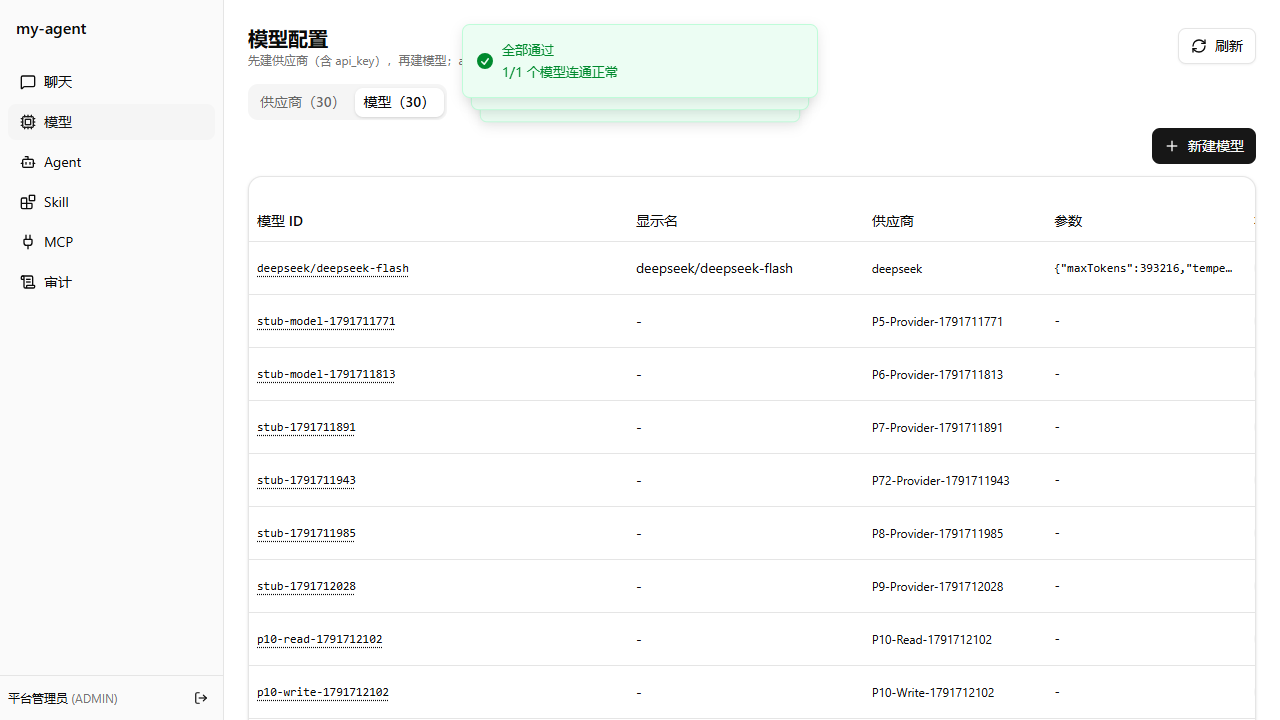
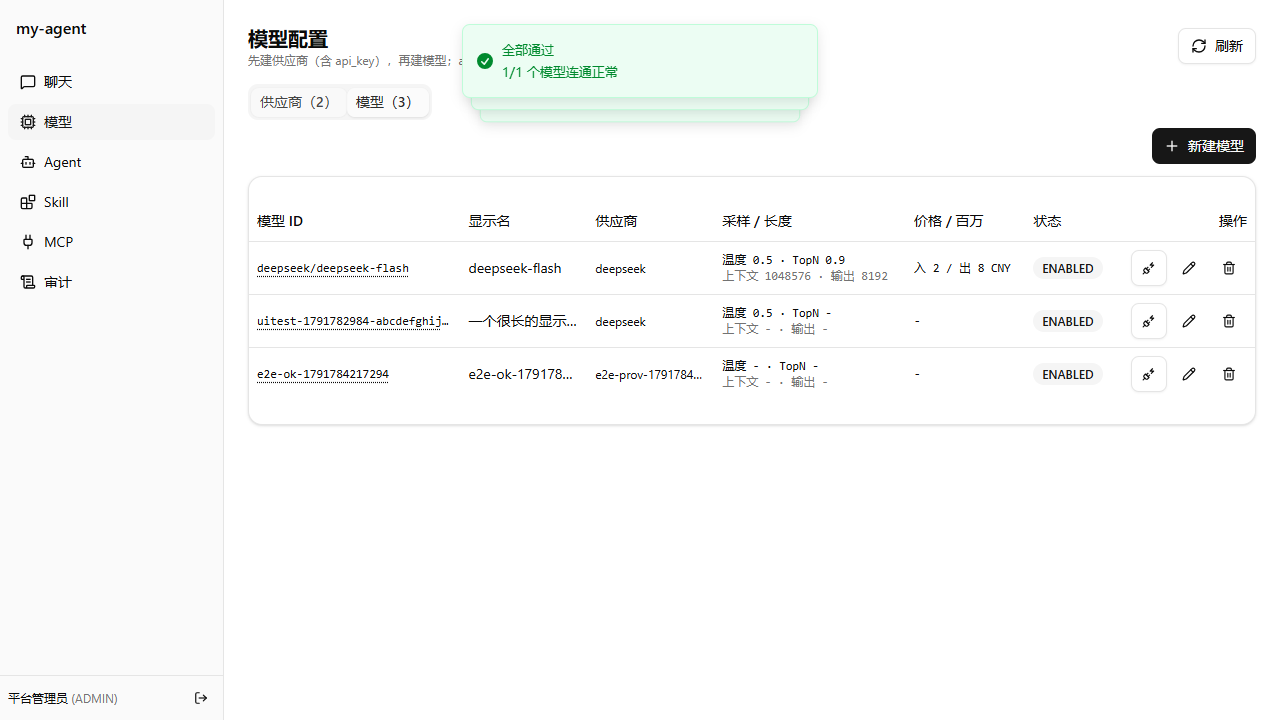
fix(P16): 长模型 ID 撑破表格（操作按钮被挤出）；顺带修连通测试没测真实配置
用户反馈：模型 ID 太长时表格被撑开，右侧操作按钮被挤到横向滚动区外。

修复（模型页）：
- 模型 ID / 显示名 / 供应商三列加 max-width + truncate，悬停（title）显示完整值；
  ID 列限 200px、显示名与供应商各 120px。
- 表头「价格（每百万 token）」缩短为「价格 / 百万」，避免表头把列撑宽。
- 行内「测试」按钮由带文字改为图标 + aria-label（列宽从 166px 降到 ~40px）。
- 实测：容器 clientWidth=scrollWidth=1006（**横向溢出 0**），编辑按钮右边界 1207 ≤ 视口 1280；
  截图 docs/acceptance/task-16-long-id-truncate.png

顺带修掉一个真功能缺口（被 e2e 暴露）：
- 连通测试（ModelConnectivityProbe 调用处）此前只读 params_json，而 Phase 15 起这些参数是显式列，
  导致「模型页填了非法 max_tokens → 点测试却通过」——非法配置在测试阶段暴露不出来。
  现在把模型的显式列（temperature/topP/maxTokens）并入探测参数，测的就是真实配置。
- 模型表单标签「输出长度（tokens）」改回含熟悉术语的「最大输出 tokens（输出长度）」。

验证：admin e2e 7/7 通过（含 max_tokens 超标用例）；前端 lint 0 error / vitest 66 / build 成功；
后端 mvn verify 93 通过。

diff --git a/frontend/src/pages/admin/models/ModelsPage.tsx b/frontend/src/pages/admin/models/ModelsPage.tsx
@@ -424,7 +424,7 @@ export default function ModelsPage() {
                     <TableHead>显示名</TableHead>
                     <TableHead>供应商</TableHead>
                     <TableHead>采样 / 长度</TableHead>
-                    <TableHead>价格（每百万 token）</TableHead>
+                    <TableHead>价格 / 百万</TableHead>
                     <TableHead>状态</TableHead>
                     <TableHead className="text-right">操作</TableHead>
                   </TableRow>
@@ -433,8 +433,8 @@ export default function ModelsPage() {
                   {models.map((m) => (
                     <TableRow key={m.id}>
                       <TableCell
-                        className="cursor-pointer font-mono text-xs underline decoration-dotted underline-offset-4"
-                        title="点击修改模型 ID"
+                        className="max-w-[200px] cursor-pointer truncate font-mono text-xs underline decoration-dotted underline-offset-4"
+                        title={m.modelId}
                         onClick={() => {
                           const params = (m.params ?? {}) as Record<string, unknown>;
                           setModelForm({
@@ -463,8 +463,16 @@ export default function ModelsPage() {
                       >
                         {m.modelId}
                       </TableCell>
-                      <TableCell>{m.displayName ?? "-"}</TableCell>
-                      <TableCell className="text-xs">
+                      <TableCell className="max-w-[120px] truncate" title={m.displayName ?? ""}>
+                        {m.displayName ?? "-"}
+                      </TableCell>
+                      <TableCell
+                        className="max-w-[120px] truncate text-xs"
+                        title={
+                          providers.find((p) => p.id === m.providerId)?.name ??
+                          String(m.providerId)
+                        }
+                      >
                         {providers.find((p) => p.id === m.providerId)?.name ?? m.providerId}
                       </TableCell>
                       <TableCell className="font-mono text-xs whitespace-nowrap">
@@ -486,17 +494,17 @@ export default function ModelsPage() {
                       <TableCell className="text-right">
                         <div className="flex justify-end gap-1">
                           <Button
-                            size="sm"
+                            size="icon"
                             variant="outline"
                             disabled={testingId != null}
+                            aria-label={testingId === m.id ? "测试中" : "测试"}
+                            title="用这个模型做连通测试"
                             onClick={() => {
                               const provider = providers.find((p) => p.id === m.providerId);
                               if (provider) void runTest(provider, m);
                             }}
-                            title="用这个模型做连通测试"
                           >
                             <PlugZap className="size-3.5" />
-                            {testingId === m.id ? "测试中…" : "测试"}
                           </Button>
                           <Button
                             size="icon"
@@ -700,7 +708,7 @@ export default function ModelsPage() {
                 />
               </label>
               <label className="space-y-1 text-sm">
-                输出长度（tokens）
+                最大输出 tokens（输出长度）
                 <Input
                   value={modelForm.maxTokens}
                   onChange={(e) => setModelForm({ ...modelForm, maxTokens: e.target.value })}

diff --git a/backend/agent-server/src/main/java/com/myagent/modelconfig/service/ModelConfigService.java b/backend/agent-server/src/main/java/com/myagent/modelconfig/service/ModelConfigService.java
@@ -127,12 +127,25 @@ public class ModelConfigService {
             throw BizException.badRequest("模型不属于该供应商");
         }
         String apiKey = cryptoService.decrypt(provider.getApiKeyCipher());
+        // Phase 15：连通测试必须测「真实配置」——把显式列并入参数，
+        // 否则表单填的 max_tokens 不会参与探测，非法配置在测试阶段就暴露不出来（用户实测踩过）。
+        Map<String, Object> probeParams = new java.util.HashMap<>(
+                model.getParams() == null ? Map.of() : model.getParams());
+        if (model.getTemperature() != null) {
+            probeParams.put("temperature", model.getTemperature());
+        }
+        if (model.getTopP() != null) {
+            probeParams.put("topP", model.getTopP());
+        }
+        if (model.getMaxTokens() != null) {
+            probeParams.put("maxTokens", model.getMaxTokens());
+        }
         return connectivityProbe.probe(
                 provider.getProviderType(),
                 provider.getBaseUrl(),
                 apiKey,
                 model.getModelId(),
-                model.getParams());
+                probeParams);
     }
 
     // ===================== model =====================
